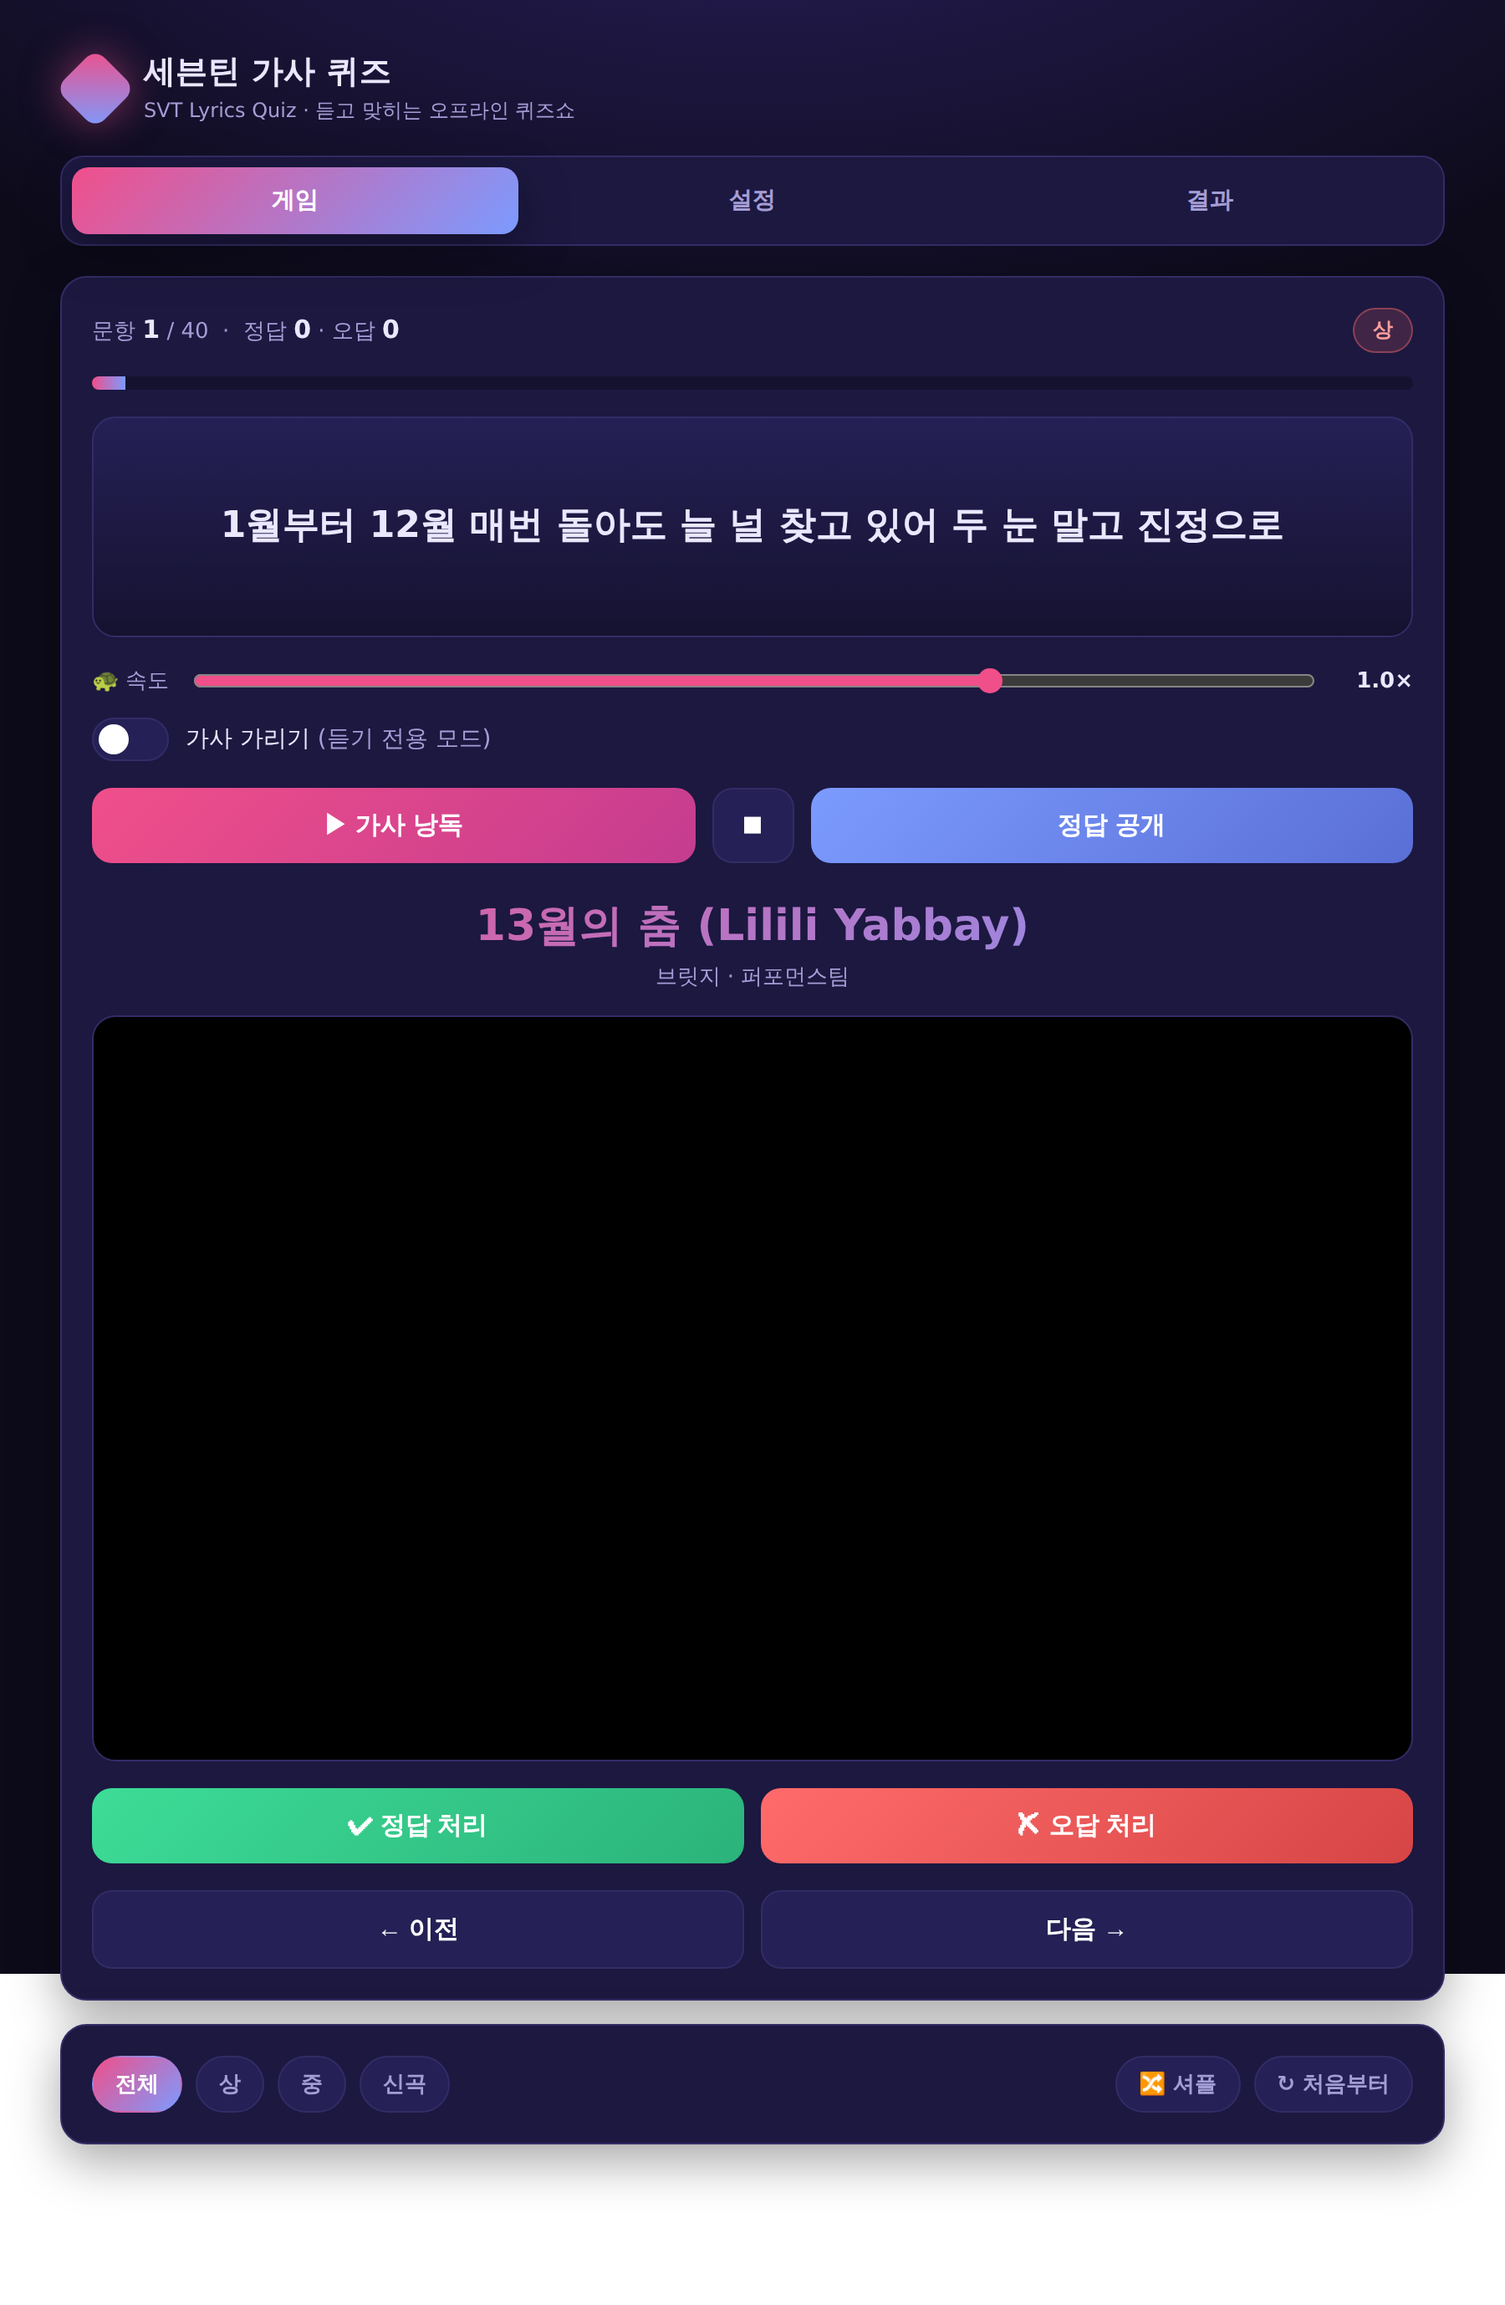
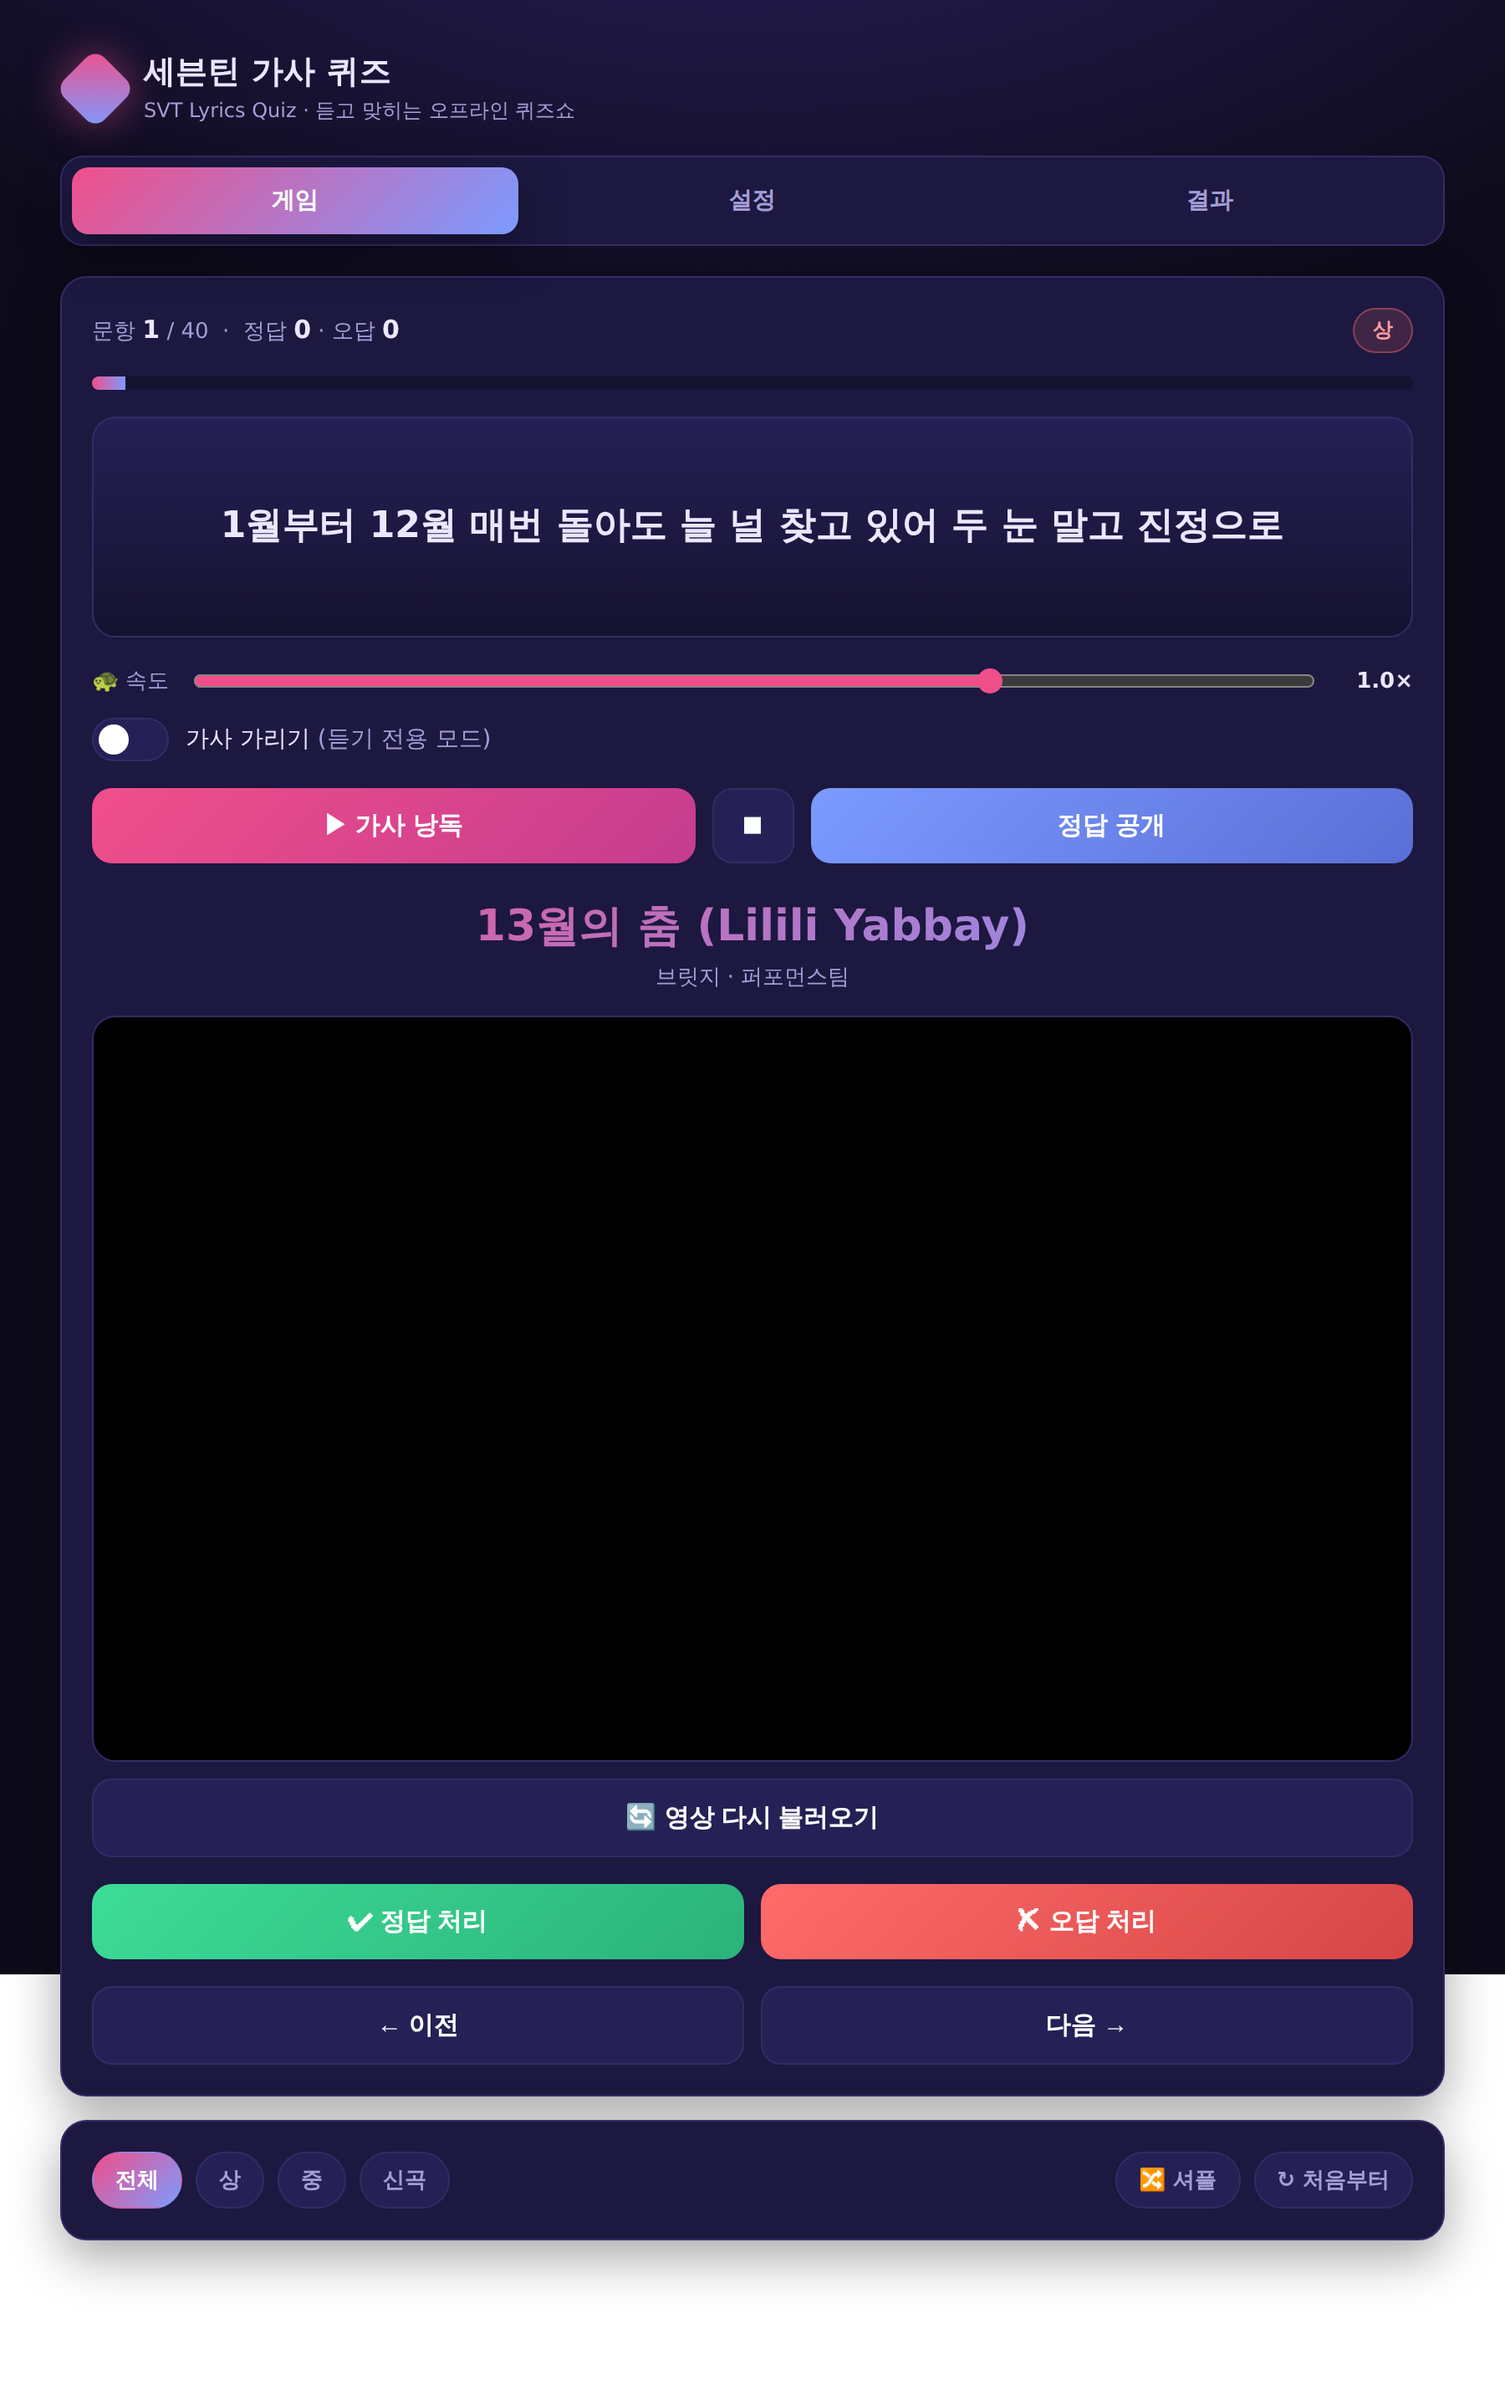
정답 영상 '다시 불러오기' 버튼 추가
MV/음원 iframe이 로드 실패하거나 링크 오류일 때 재로드할 수 있도록
정답 공개 영상 아래에 새로고침 버튼 추가. 캐시버스터 nonce로 동일 영상도
강제 리로드. 스크린샷 갱신.

Claude-Session: https://claude.ai/code/session_01BoVUxZZ7QKP6hKgrZ25vGv

diff --git a/index.html b/index.html
@@ -247,6 +247,7 @@
         <div class="song-name" id="g-answer-name"></div>
         <div class="part-label" id="g-answer-part"></div>
         <div class="video-wrap" id="g-video"></div>
+        <button class="btn btn-ghost btn-sm" id="g-video-reload" style="margin-top:10px;width:100%">🔄 영상 다시 불러오기</button>
 
         <!-- solo scoring -->
         <div class="controls" id="g-solo-score">
@@ -658,17 +659,29 @@ function updateCounters(){
 }
 function hideAnswer(){ els.answer.classList.remove("show"); els.video.innerHTML=""; }
 
-function showAnswer(){
+function renderVideo(){
   if(order.length===0) return;
-  const id=order[pos]; const song=songById(id); const c=getC(id);
-  els.ansName.textContent=song.name; els.ansPart.textContent=song.part;
+  const c=getC(order[pos]);
   const vid=parseYouTube(c.mv);
+  const reloadBtn=document.getElementById("g-video-reload");
   if(vid){
     const start=parseTime(c.time);
-    els.video.innerHTML=`<iframe src="https://www.youtube.com/embed/${vid}?start=${start}&autoplay=1&rel=0" allow="autoplay; encrypted-media; fullscreen" allowfullscreen></iframe>`;
+    // cache-busting param forces the iframe to reload even on the same video
+    els.video.innerHTML=`<iframe src="https://www.youtube.com/embed/${vid}?start=${start}&autoplay=1&rel=0&_=${videoReloadNonce}" allow="autoplay; encrypted-media; fullscreen" allowfullscreen></iframe>`;
+    if(reloadBtn) reloadBtn.style.display="inline-flex";
   }else{
     els.video.innerHTML=`<div class="no-video">🎬 등록된 MV 주소가 없습니다.<br>설정 탭에서 유튜브 주소를 입력하면 재생됩니다.</div>`;
+    if(reloadBtn) reloadBtn.style.display="none";
   }
+}
+let videoReloadNonce=0;
+function reloadVideo(){ videoReloadNonce++; renderVideo(); toast("영상을 다시 불러옵니다"); }
+
+function showAnswer(){
+  if(order.length===0) return;
+  const id=order[pos]; const song=songById(id);
+  els.ansName.textContent=song.name; els.ansPart.textContent=song.part;
+  renderVideo();
   // scoring UI
   document.getElementById("g-solo-score").style.display=config.teamMode?"none":"flex";
   document.getElementById("g-team-score").style.display=config.teamMode?"block":"none";
@@ -760,6 +773,7 @@ els.hide.addEventListener("change",applyHide);
 document.getElementById("g-play").addEventListener("click",speak);
 document.getElementById("g-stopread").addEventListener("click",()=>{ stopTTS(); stopTimer(); });
 document.getElementById("g-reveal").addEventListener("click",showAnswer);
+document.getElementById("g-video-reload").addEventListener("click",reloadVideo);
 document.getElementById("g-mark-correct").addEventListener("click",()=>mark("correct"));
 document.getElementById("g-mark-wrong").addEventListener("click",()=>mark("wrong"));
 document.getElementById("g-noone").addEventListener("click",()=>{ if(order.length){ marks[order[pos]]="wrong"; turn=(turn+1)%(config.teamNames.length||1); updateCounters(); renderTeamBoard(); } next(); });
